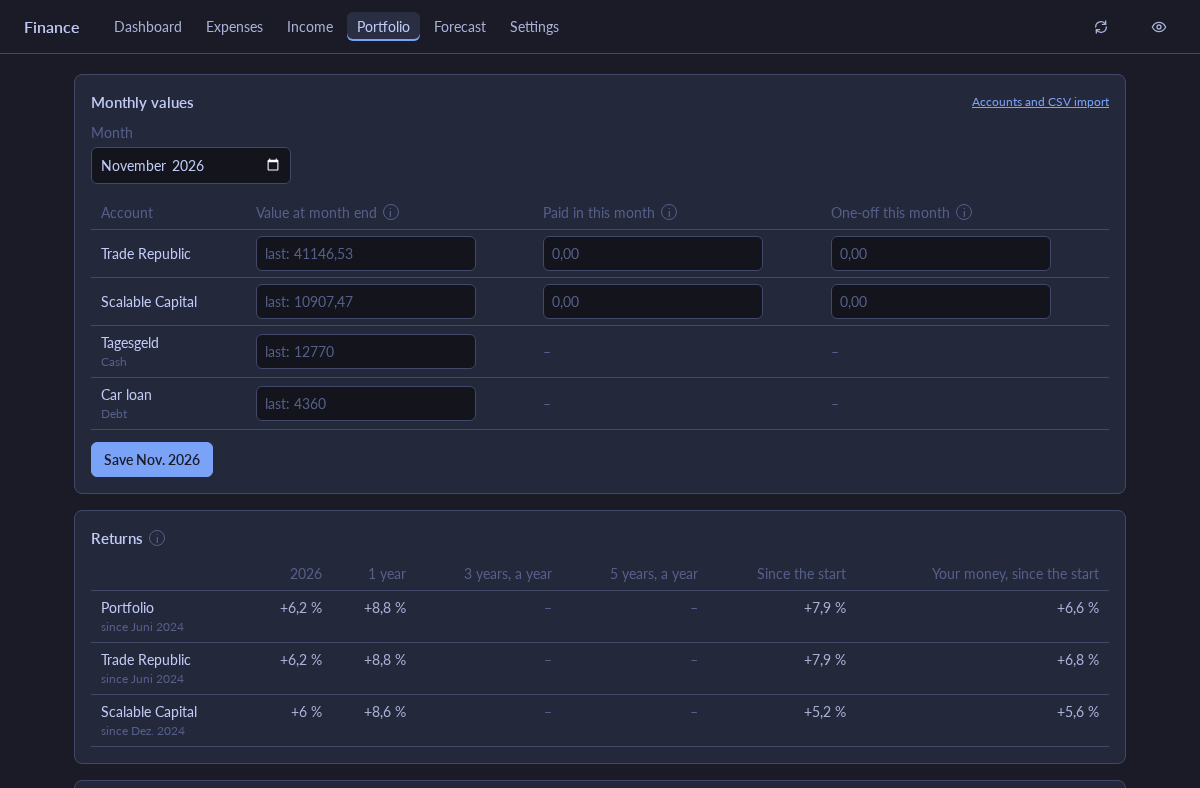
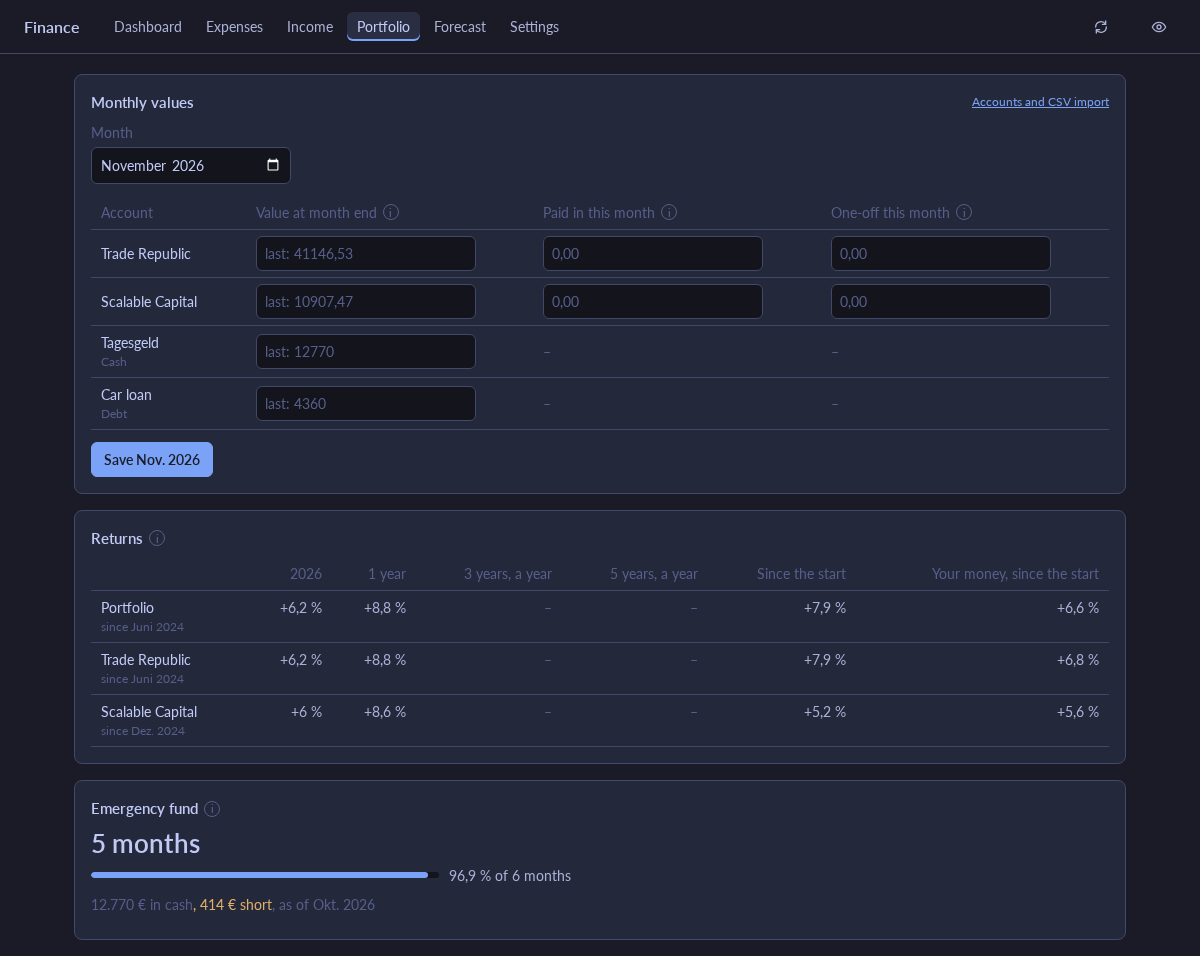
Move the emergency fund from the dashboard to its own Portfolio card
The emergency fund was a line under Expenses covered on the dashboard,
which is about the portfolio, not cash.

The Expenses covered tile now only says how long the portfolio pays the
expenses. A new Emergency fund card on the Portfolio page, under
Returns, shows how many months of expenses the cash accounts cover,
with a bar for how much of the target in Settings that is, the cash,
and what is missing. Without a cash account it says to add one; without
expenses, it shows the cash and links to Expenses. Without any accounts
it is left out: Monthly values asks for them already.

README and its dashboard and portfolio screenshots updated.

diff --git a/app/style.css b/app/style.css
@@ -1440,8 +1440,20 @@ table.entry th {
   background: var(--bad, var(--red));
 }
 
-/* The emergency fund is short of its target. */
-.tile-detail .short {
+/* ---- emergency fund, on the Portfolio page: a bar for how much of the
+   target the cash covers, as in Milestones. */
+
+.emergency .reach-row {
+  max-width: 480px;
+  margin: 6px 0 4px;
+}
+
+.emergency.reached .meter-fill {
+  background: var(--fg-strong);
+}
+
+/* Short of the target. */
+.emergency .short {
   color: var(--yellow);
 }
 

diff --git a/README.md b/README.md
@@ -235,7 +235,12 @@ Since the start, both are a year from 12 months of history on, and over the
 whole time before. Pay-ins, one-offs and an account's first value count
 from the middle of their month.
 
-![Portfolio: two invested accounts, cash and a car loan, a one-off column, and the returns](docs/portfolio.png)
+**Emergency fund**, under the returns: the latest values of the cash
+accounts ÷ this month's expenses with buffer, how much of the months set
+in Settings that is, and how much is missing. Without a cash account it
+says to add one.
+
+![Portfolio: two invested accounts, cash and a car loan, a one-off column, the returns and the emergency fund](docs/portfolio.png)
 
 ### Dashboard numbers
 
@@ -246,7 +251,7 @@ from the middle of their month.
 | Investment rate | Future pay-in ÷ monthly income: the average monthly pay-in over the last 12 months (one-offs left out), or your own amount from Settings |
 | Portfolio | Sum of the invested accounts in the latest month, and its change since the month before |
 | Gains, last 12 months | Change in portfolio value over the last 12 months minus the pay-ins and one-offs. The return is that gain ÷ (the value 12 months ago + each pay-in and one-off for the part of the 12 months it was invested, from the middle of its month) |
-| Expenses covered | Portfolio ÷ monthly expenses: how long it would pay for them. Under it, the emergency fund: the latest values of the cash accounts ÷ monthly expenses, and how much is missing to the months set in Settings |
+| Expenses covered | Portfolio ÷ monthly expenses: how long it would pay for them |
 
 With less than 12 months of history, the average uses the months there
 are, and so do the gains, from the first month on.
